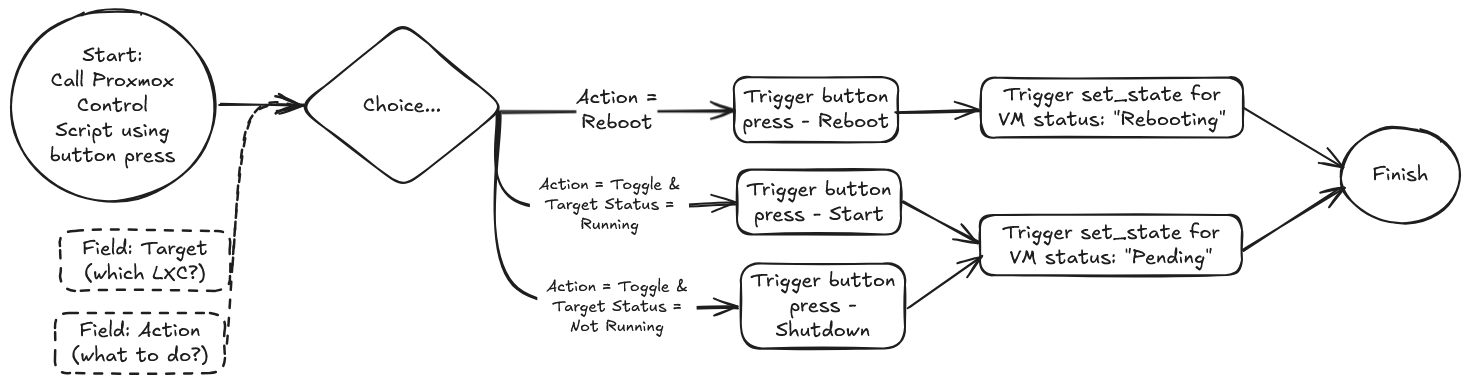
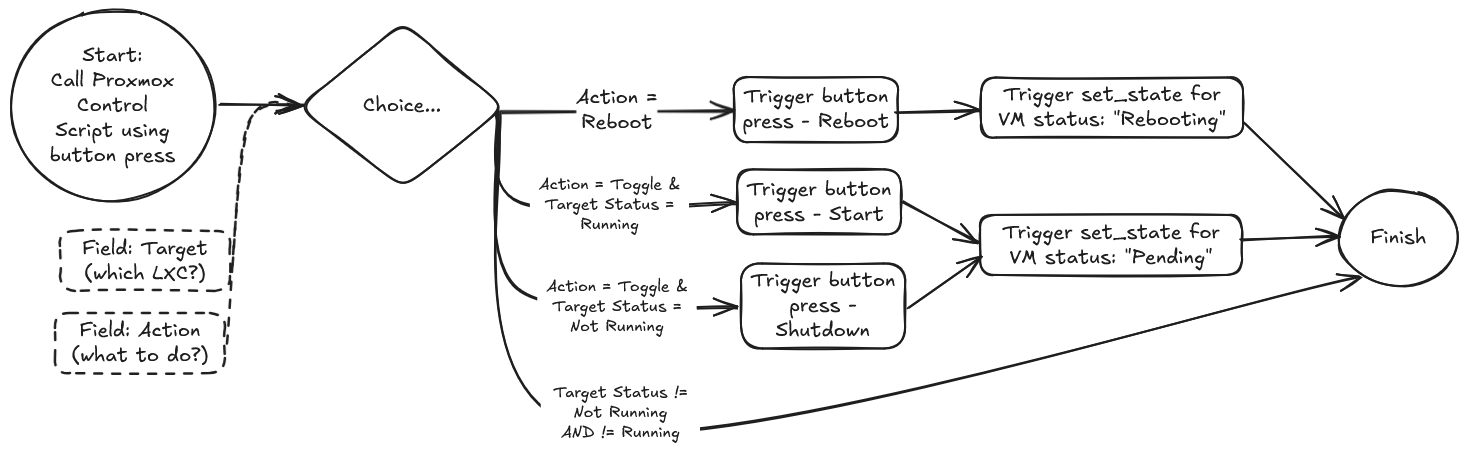
Finish text draft, added script and button examples

diff --git a/proxmox_control.md b/proxmox_control.md
@@ -3,7 +3,20 @@
 ## Aims
 
 - I want to start, shutdown and or reboot various Proxmox LXCs and VMs from within Home Assistant
-- Using [bubblecard](https://github.com/Clooos/Bubble-Card) for the interface would be good as it will fit with other dashboards
+- Using [Bubble Card](https://github.com/Clooos/Bubble-Card) for the interface would be good as it will fit with other dashboards
+
+## TL:DR
+
+This article presents 
+
+1. A Home Assistant script that can be used to control (start, shutdown, or reboot) multiple Proxmox VE LXCs/VM
+2. A Home Assistant interface element that works with the script to control 4 different Proxmox VE LXCs
+
+The interface buttons use Bubble Card to provide a single button for each LXC including:
+- Status of the LXC (on/off/pending/rebooting)
+- A sub-button to toggle between on/off
+- A sub-button to reboot
+- Sub-button icons change color and change to a spinning 'working' icon during transitions
 
 ## Steps
 
@@ -136,13 +149,84 @@ Thanks to [u/generalambivalence](https://www.reddit.com/user/generalambivalence/
 
 </details>
 
+### Problem - Coping with multiple button presses - Part 1
+
+I've got several Proxmox VM and I don't want to wait for an action to complete on one before I start an action on another (e.g. I want to shutdown 2 VMs)
+
+<details>
+  <summary>Solution</summary>
+
+### Solution
+
+After going back to the Home Assistant docs, I was reminded about [Script Modes](https://www.home-assistant.io/integrations/script#script-modes).
+The full details are in the documentation but in sumamary, scripts be run in 1 of 4 different modes:
+
+- `single`: Do not start a new run.  Issue a warning
+- `restart`: Start a new run after first stopping previous run
+- `queued`: Start a new run after all previous runs complete.  Runs are guaranteed to execute in the order they were queued
+- `parallel`: Start a new, independent run in parrallel with previous runs
+
+For my use-case, `parallel` fits the best as I want to each button press to be treated independently
+
+In yaml, it then looks like this:
+
+```yaml
+mode: parallel
+max: 10
+```
+
+Note, the `max: 10` can be used to limit the number instances of the script that can be running at the same time
+
+Alternatively, if you're making scripts in the user interface, the script mode can be set using the top-right menu:
+
+![Script menu showing modes](./media/script_change_mode.png)
+
+</details>
+
+### Problem - Coping with multiple button presses - Part 2
+
+Each VM has 2 buttons - one for start/shutdown and a 2nd button for reboot.  If I've pressed the button to reboot a machine, I don't want the start/shutdown to be triggered while the reboot is still in progress.
+
+<details>
+  <summary>Solution</summary>
+
+### Solution
+
+To solve this, I'll create an option within my script that will be triggered if the status of the VM being called is anything other than 'on' and 'off'.  The code snippet for this is shown below:
+
+```yaml
+- conditions:
+  - condition: and
+    conditions:
+      - condition: template
+        value_template: "{{ states('binary_sensor.' + target + '_status') != 'on' }}"
+      - condition: template
+        value_template: "{{ states('binary_sensor.' + target + '_status') != 'off' }}"
+sequence: []
+alias: If action is already in progress
+```
+
+</details>
+
+## Result
+
 ### Script Flow
 
 The script flow is shown below:
 
 ![Flow for Proxmox control script](./media/proxmox_control_script.png)
 
-**Insert full script here** %%%%%
+The full script is here:
+
+[Script: Proxmox LXC Control](./scripts/proxmox_lxc_control.yaml)
+
+This works with this set of buttons:
+
+*** Insert button image here (204 - End) ***
+
+The yaml for these buttons is here:
+
+
 
 
 [🔼 Back to top](#proxmox-container-and-virtual-machine-control)
